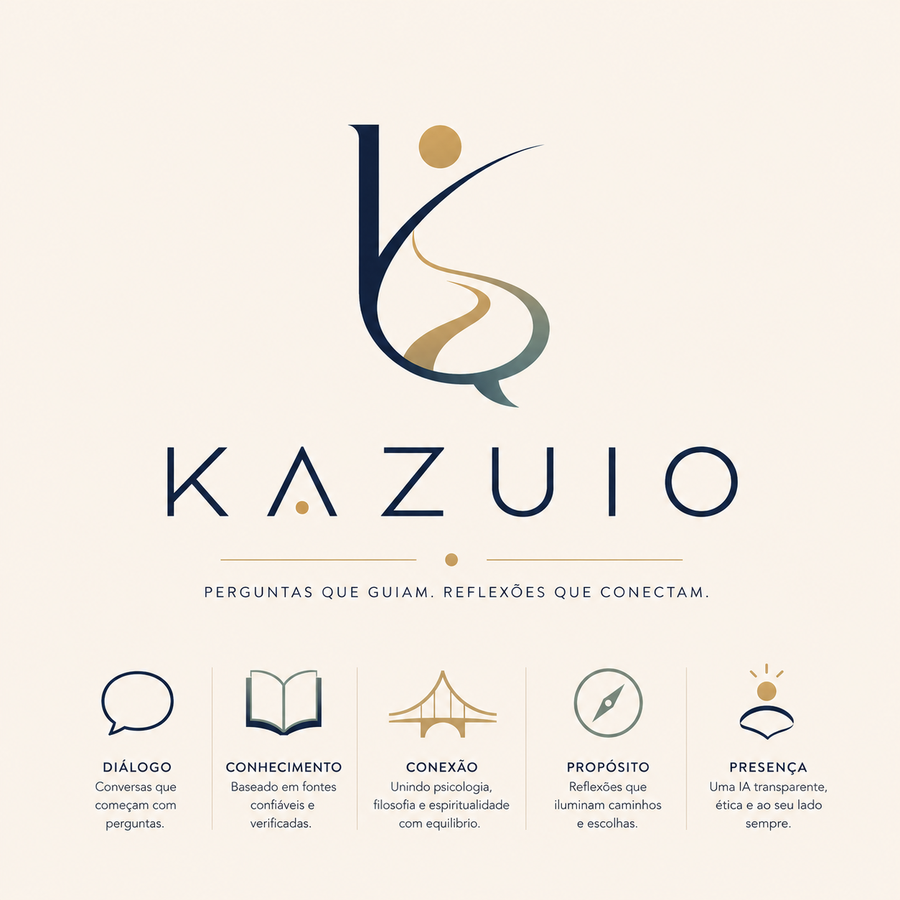
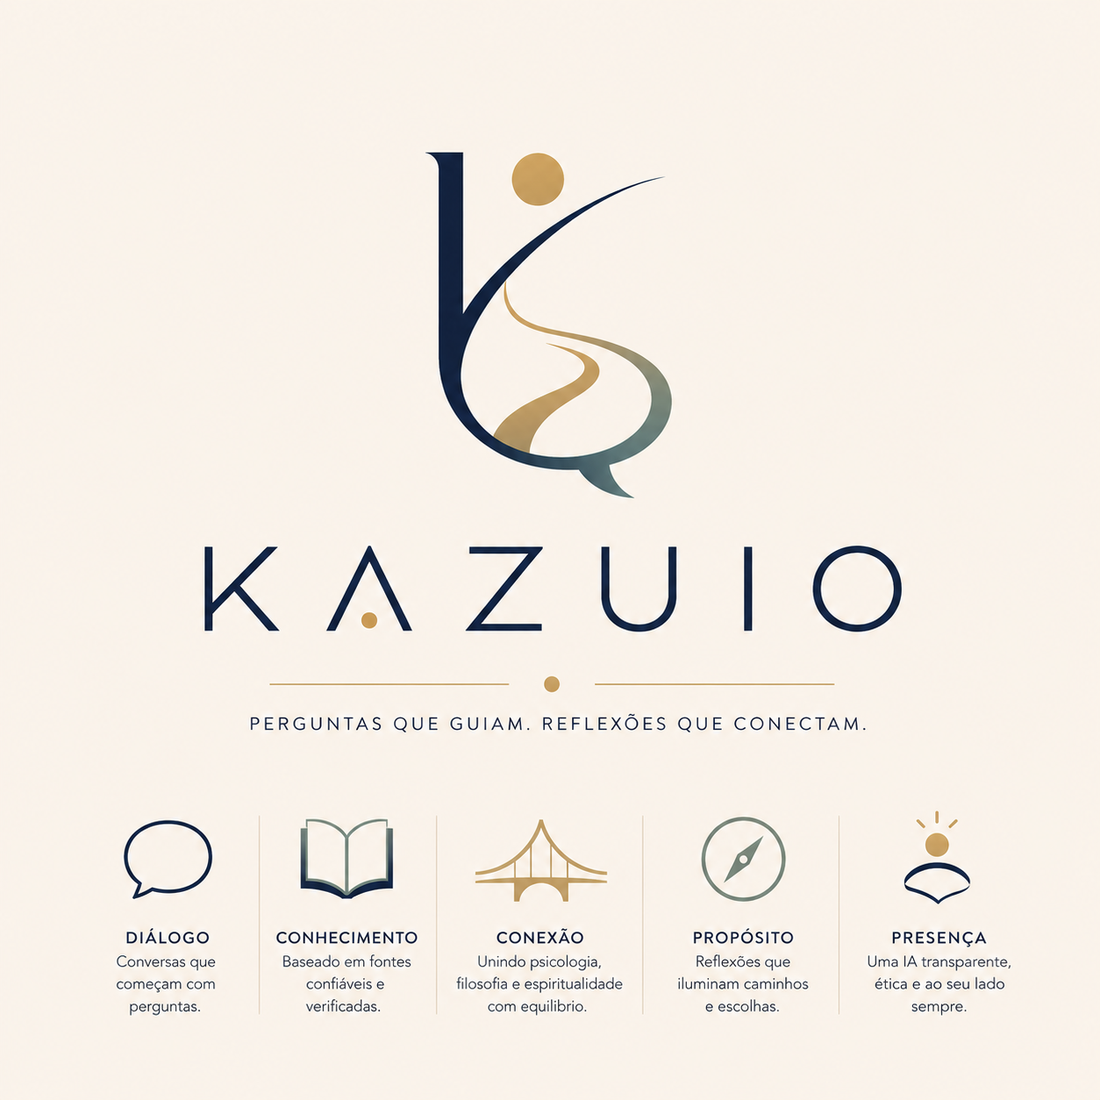
Aumentar tamanho do flyer e melhorar resolução

diff --git a/index.html b/index.html
@@ -30,8 +30,8 @@
     text-align:center;
   }
   .flyer{
-    max-width: 480px;
-    width: 100%;
+    max-width: 780px;
+    width: 90%;
     height:auto;
     margin-bottom: 28px;
   }
